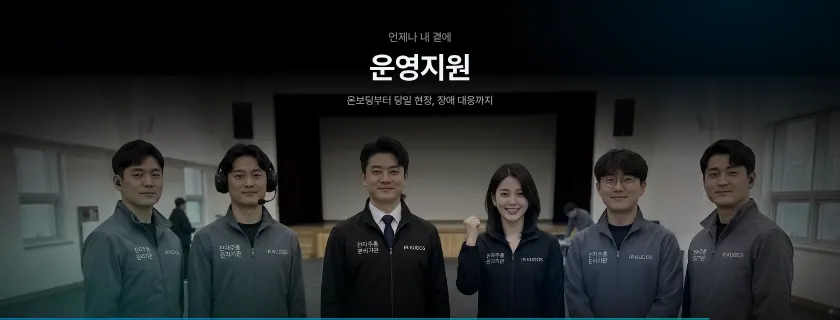
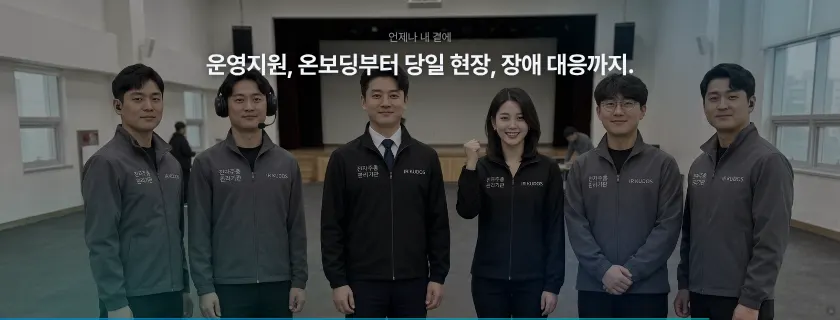
세션4 K27 제목 한 줄 · 사진 전체(페더 없음), K28c 타임라인 40px 위로
Claude-Session: https://claude.ai/code/session_01Mn7NmyW5iujmmHnaRBFKBZ

diff --git a/sw.js b/sw.js
@@ -1,5 +1,5 @@
 /* 오프라인 캐시 — 온라인 주소(https)로 한 번 열면 모든 파일을 저장해 두고, 통신이 끊겨도 저장본으로 동작합니다. */
-const V='seminar-screen-11272116';
+const V='seminar-screen-11272118';
 const FILES=["./","assets/KakaoBigSans-Bold.woff2","assets/KakaoBigSans-Regular.woff2","assets/KakaoSmallSans-Bold.woff2","assets/KakaoSmallSans-Light.woff2","assets/KakaoSmallSans-Regular.woff2","assets/OrbitControls.js","assets/PretendardVariable.woff2","assets/attendees.js","assets/blue-bloom.html","assets/cong1.webp","assets/cong2.webp","assets/ds-bg.html","assets/four-states.html","assets/intro.mp4","assets/irk-white.svg","assets/irk-wordmark-white.svg","assets/kism-intro.mp4","assets/kism-white.svg","assets/ksmp-white.svg","assets/panel.js","assets/qa-online.js","assets/s2/img1.png","assets/s2/img2.png","assets/s2/img3.png","assets/s2/img4.png","assets/s4/aws.webp","assets/s4/callcenter.webp","assets/s4/chair-1.webp","assets/s4/chair-2.webp","assets/s4/chair-3.webp","assets/s4/conexus-word.webp","assets/s4/ctl-1.webp","assets/s4/cx-1.webp","assets/s4/cx-2.webp","assets/s4/cx-3.webp","assets/s4/cx-flow.mp4","assets/s4/cx-pop1.webp","assets/s4/cx-pop2.webp","assets/s4/cx-vote.mp4","assets/s4/cx-vote.webp","assets/s4/cxs-1.webp","assets/s4/insurance.webp","assets/s4/isms-t.webp","assets/s4/isms.webp","assets/s4/ismsp-t.webp","assets/s4/ismsp.webp","assets/s4/kosmos-white.png","assets/s4/ks-1.webp","assets/s4/ks-2.webp","assets/s4/ks-3.webp","assets/s4/ks-4.webp","assets/s4/ks-5.webp","assets/s4/ks-video.webp","assets/s4/live-1.webp","assets/s4/live-2.webp","assets/s4/live-3.webp","assets/s4/live-4.webp","assets/s4/live-5.webp","assets/s4/live-6.webp","assets/s4/live-7.webp","assets/s4/live-8.webp","assets/s4/logos.webp","assets/s4/ocr-1.webp","assets/s4/ocr-2.webp","assets/s4/ocr-3.webp","assets/s4/ocr-4.webp","assets/s4/ocr-5.webp","assets/s4/on-1.png","assets/s4/on-2.webp","assets/s4/on-3.webp","assets/s4/on-4.png","assets/s4/on-5.webp","assets/s4/onboard-1.webp","assets/s4/onboard-2.webp","assets/s4/privacy.webp","assets/s4/proxymity.svg","assets/s4/rehearsal.webp","assets/s4/streaming-korea.webp","assets/s4/tab-1.webp","assets/s4/tab-2.webp","assets/s4/team.webp","assets/sched.js","assets/screen-title-2.svg","assets/screen-title-b-text.svg","assets/screen-title-b.svg","assets/seat-banners.js","assets/seat-fascia.js","assets/seat-screen.js","assets/seatmap.js","assets/service-intro.mp4","assets/speaker-scott.webp","assets/speaker1-1.webp","assets/speaker2.webp","assets/speaker3-1.webp","assets/supabase.min.js","assets/three.min.js","assets/title-logos.svg","control.html","index-fs.html","index.html","kism.html","lobby/cuts.html","lobby/index.html","mc.html","session2.html","session4.html","sw.js","tools/s2_build.py","tools/s2_shell.html","assets/s3/p01.webp","assets/s3/p02.webp","assets/s3/p03.webp","assets/s3/p04.webp","assets/s3/p05.webp","assets/s3/p06.webp","assets/s3/p07.webp","assets/s3/p08.webp","assets/s3/p09.webp","assets/s3/p10.webp","assets/s3/p11.webp","assets/s3/p12.webp","assets/s3/p13.webp","assets/s3/p14.webp","assets/s3/p15.webp","assets/s3/p16.webp","assets/s3/p17.webp","assets/s3/p18.webp","assets/s3/p19.webp","assets/s3/p20.webp","assets/s3/p21.webp","assets/s3/p22.webp","assets/s3/p23.webp","assets/kism/photo-main.webp","assets/kism/photo-2.webp","assets/kism/photo-3.webp","assets/kism/photo-4.webp","assets/sound/countdown-tick.mp3","assets/sound/sfx-s3-part.mp3","assets/sound/sfx-s4-reveal.mp3","assets/sound/sfx-s5-proxymity.mp3","assets/sound/sfx-s6-chime.mp3","assets/sound/sfx-s7-close.mp3","assets/sound/opening-hit.mp3","assets/s4/kosmos-color.svg","assets/s4/ke-logo.png","assets/s4/ke-live.mp4","assets/kism/kwon-talk.mp4","assets/kism/manual-book.webp","kism-open.html","kism_16x9.html","led.html","assets/s4/cx-ops.mp4","assets/s4/cx-ops.webp","assets/s4/agent-app.mp4","assets/s4/kosmos-web.webp","assets/s4/ks-attend.mp4","assets/s4/ks-attend.webp","assets/s4/ks-switch.mp4","assets/s4/ks-switch.webp","assets/s4/ks-notify.mp4","assets/s4/ks-notify.webp","assets/s4/ks-vote.mp4","assets/s4/ks-vote.webp","assets/s4/ks-qna.mp4","assets/s4/ks-qna.webp","assets/s4/pc-map.webp","assets/s4/pc-map.mp4","assets/s4/pc-web.mp4","assets/s4/pc-web.webp","assets/s4/agent-app.webp","assets/s4/k24b-bg.webp","session0.html","face.html","assets/face-link.js","assets/kism/photo-main-cut.webp","assets/s4/cx-chair.mp4","assets/s4/cx-chair.webp","assets/s4/cx-test.mp4","assets/s4/cx-test.webp","assets/s4/onboard-mgr.webp","assets/s4/proxymity-logo.png","assets/s4/k21-bg.webp","assets/s4/kosmos-admin-white.svg","assets/kism-intro-16x9.mp4","assets/seat-guide.html","assets/s4/app-icon-agent.svg","assets/ds-main.mp4","assets/s4/k2-agency.webp","assets/s4/k2-support.webp","assets/s4/thumbs/K00.webp","assets/s4/thumbs/K01.webp","assets/s4/thumbs/K02.webp","assets/s4/thumbs/K03.webp","assets/s4/thumbs/K04.webp","assets/s4/thumbs/K05.webp","assets/s4/thumbs/K06.webp","assets/s4/thumbs/K07.webp","assets/s4/thumbs/K08.webp","assets/s4/thumbs/K09.webp","assets/s4/thumbs/K10.webp","assets/s4/thumbs/K11.webp","assets/s4/thumbs/K12.webp","assets/s4/thumbs/K13.webp","assets/s4/thumbs/K14.webp","assets/s4/thumbs/K15.webp","assets/s4/thumbs/K16.webp","assets/s4/thumbs/K17.webp","assets/s4/thumbs/K18a.webp","assets/s4/thumbs/K18b.webp","assets/s4/thumbs/K18c.webp","assets/s4/thumbs/K19.webp","assets/s4/thumbs/K19b.webp","assets/s4/thumbs/K19c.webp","assets/s4/thumbs/K20.webp","assets/s4/thumbs/K21.webp","assets/s4/thumbs/K21b.webp","assets/s4/thumbs/K22s.webp","assets/s4/thumbs/K23.webp","assets/s4/thumbs/K23b.webp","assets/s4/thumbs/K24a.webp","assets/s4/thumbs/K24b.webp","assets/s4/thumbs/K24c.webp","assets/s4/thumbs/K25.webp","assets/s4/thumbs/K25b.webp","assets/s4/thumbs/K26.webp","assets/s4/thumbs/K27.webp","assets/s4/thumbs/K28a.webp","assets/s4/thumbs/K28b.webp","assets/s4/thumbs/K28c.webp","assets/s4/thumbs/K28d.webp","assets/s4/thumbs/K29.webp","assets/s4/thumbs/K30.webp","assets/s4/thumbs/K09b.webp","assets/s4/thumbs/K28e.webp","assets/s4/thumbs/K28p.webp","assets/s4/onsite-vote.mp4","assets/s4/onsite-vote.webp","assets/s4/rehearsal-site.webp","assets/qr-ask.svg"];
 self.addEventListener('install',e=>{e.waitUntil(caches.open(V).then(c=>c.addAll(FILES)).then(()=>self.skipWaiting()));});
 self.addEventListener('activate',e=>{e.waitUntil(caches.keys().then(ks=>Promise.all(ks.filter(k=>k!==V).map(k=>caches.delete(k)))).then(()=>self.clients.claim()));});

diff --git a/session4.html b/session4.html
@@ -2033,6 +2033,17 @@ html.r169 #K27 .sec-c{--k27y:560px}
 #K26 .k26s{top:470px!important;height:1001px!important}
 /* 11/27 21:16 K28p 아래 특허 목록 뒤에 박스(K13 띠와 같은 면) — 좌우 · 아래 화면 끝까지 */
 #K28p .k28bg{position:absolute;left:0;right:0;top:820px;bottom:0;border-top:2px solid rgba(242,245,250,.1);background:linear-gradient(180deg,rgba(14,18,24,.75),rgba(8,11,15,.55))}
+/* 11/27 21:18 K27: 제목 한 줄 「운영지원, 온보딩부터 당일 현장, 장애 대응까지.」, 인원 사진은 그라데이션 · 페더 없이 화면 전체 */
+#K27 .sec-h{font-size:120px!important;white-space:nowrap}
+html.r169 #K27 .sec-h{font-size:96px!important}
+#K27 .sec-c{--k27y:520px}
+html.r169 #K27 .sec-c{--k27y:600px}
+#K27 .photo{inset:0!important;top:0!important;bottom:0!important;background-size:cover!important;background-position:center 0%!important;-webkit-mask-image:none!important;mask-image:none!important;filter:saturate(.85) brightness(.62)!important}
+#K27.sec .shade{display:none}
+#K27 .k27e,#K27 .sec-h{text-shadow:0 4px 40px rgba(0,0,0,.6)}
+html.r169 #K27 .photo{background-position:center 30%!important}
+/* 11/27 21:19 K28c 타이틀 아래 시기 · 단계 글 전체 40px 위로 */
+#K28c .k28t{translate:0 -40px}
 /* ═════ 16:9 버전 (?a=16x9, 11/27) ═════
    ※ 빔프로젝터(led.html?a=16x9) M7-7이 이 모드를 씀. 장을 고치면 ?a=16x9로도 확인하고, 21:8 원본 위치를 바꾸면 아래 html.r169 #Kxx 규칙도 같이 맞출 것.
       R169Z(묶음 축소) 장은 내용 범위를 자동으로 재서 배치하므로 대부분 따라감.
@@ -2564,7 +2575,7 @@ html.r169 #K28p .k28bg{top:800px}
 <!-- ═════════ 6. 운영지원 ═════════ -->
 <section class="s ch sec fl" id="K27" data-t="장 표지 · 운영지원" data-dim="0">
  <div class="photo"></div><div class="shade"></div><div class="au"></div>
- <div class="sec-c"><p class="k27e fu" style="--i:0">언제나 내 곁에</p><h2 class="sec-h fu" style="--i:1">운영지원</h2><p class="sec-s fu" style="--i:2">온보딩부터 당일 현장, 장애 대응까지</p></div>
+ <div class="sec-c"><p class="k27e fu" style="--i:0">언제나 내 곁에</p><h2 class="sec-h fu" style="--i:1">운영지원, 온보딩부터 당일 현장, 장애 대응까지.</h2></div>
 </section>
 
 <section class="s" id="K28a" data-t="운영지원 1 · 온보딩" data-dim=".1">
@@ -2884,7 +2895,7 @@ const R169=document.documentElement.classList.contains('r169'),SW=R169?3200:4200
 /* 16:9 재배치를 마친 장 */
 const R169OK='K00 K01 K03 K12 K16 K21b K20 K27 K04 K09 K05 K06 K07 K08 K13 K14 K09b K10 K11 K28e K17 K18a K18c K18b K19 K23 K23b K25 K25b K28b K24a K24b K24c K26 K28c K15 K19b K19c K21 K22s K28p K29 K28d K28a K02'.split(' ');if(R169)R169OK.forEach(k=>{const e=document.getElementById(k);if(e)e.dataset.r=1;});
 /* 16:9: 큰 도식 장은 제목(.top) 외 요소를 한 묶음(.zr)으로 감싸 폭 2760에 맞게 줄이고 제목 아래 세로 공간을 씀. [배율, 원본 내용 왼쪽, 원본 내용 위, 16:9 내용 위, 제외 선택자] */
-window.R169Z={K02:[.9,'.top'],K24a:[.82,'.ab,.k24map',1480,3120],K24b:[.82,'.k24bt,.k24bi',1480,3120],K19b:[.767,'.top,.k19i'],K19c:[.767,'.top'],K21:[.767,'.k21t,.k21bg'],K22s:[.767,'.top'],K28p:[.767,'.ab:first-child,.k28bg'],K29:[.767,'.top'],K28d:[.767,'.top'],K28a:[.767,'.top'],K28c:[.767,'.top,.k28ph',null,null,-250],K24c:[.767,'.top',null,null,-80],K26:[.767,'.top'],K15:[.767,'.top']};
+window.R169Z={K02:[.9,'.top'],K24a:[.82,'.ab,.k24map',1480,3120],K24b:[.82,'.k24bt,.k24bi',1480,3120],K19b:[.767,'.top,.k19i'],K19c:[.767,'.top'],K21:[.767,'.k21t,.k21bg'],K22s:[.767,'.top'],K28p:[.767,'.ab:first-child,.k28bg'],K29:[.767,'.top'],K28d:[.767,'.top'],K28a:[.767,'.top'],K28c:[.767,'.top,.k28ph',null,null,-290],K24c:[.767,'.top',null,null,-80],K26:[.767,'.top'],K15:[.767,'.top']};
 /* 묶음을 줄인 뒤 실제 내용 범위를 재서 제목 아래 남는 공간의 가운데(가로는 화면 가운데)에 놓음 */
 window.r169wrap=function(){const st=document.getElementById('stage');for(const id in R169Z){const S=document.getElementById(id);if(!S)continue;const [z,skip,X0,X1,DY]=R169Z[id];const w=document.createElement('div');w.className='zr';[...S.children].filter(c=>!(skip&&c.matches(skip))).forEach(c=>w.appendChild(c));S.appendChild(w);S.dataset.r=1;w.dataset.z=z;if(X0!=null){w.dataset.x0=X0;w.dataset.x1=X1;}w.dataset.dy=DY||0;}
  const place=()=>{const sr=st.getBoundingClientRect(),k=sr.width/3200;document.querySelectorAll('.zr').forEach(w=>{const z=+w.dataset.z;w.style.transform=`scale(${z})`;let L=1e9,T=1e9,R=-1e9,B=-1e9;
